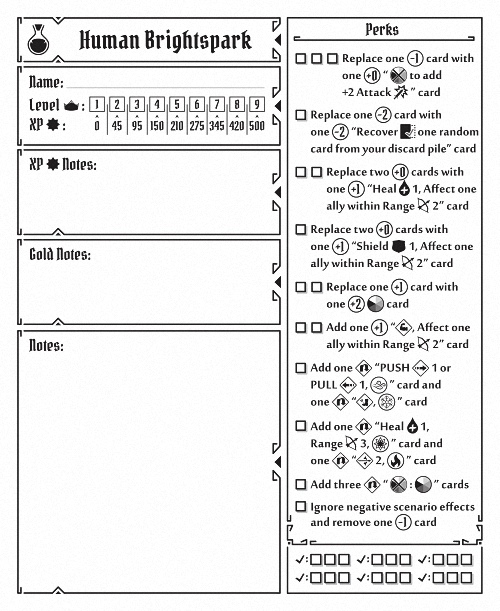
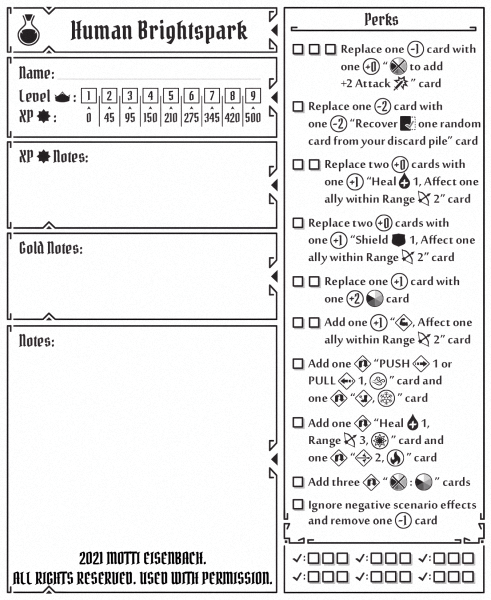
Implement New CS CP Assets with Copyright, Standardized Sizes & Asset Numbers

Changed region(s): [[0.0, 0.0, 1.0, 0.99]]

diff --git a/data/character-perks.js b/data/character-perks.js
@@ -776,148 +776,275 @@
     "assetno": "###"
   },
   {
-    "name": "party sheet",
+    "name": "amber aegis perks",
     "points": 97,
     "expansion": "crimson scales",
-    "image": "character-perks/crimson-scales/cs-party-sheet.png",
-    "xws": "partysheet"
+    "image": "character-perks/crimson-scales/cs-amber-aegis-perks.png",
+    "xws": "amberaegisperks",
+    "assetno": "###"
   },
   {
-    "name": "amber aegis perks",
+    "name": "beetle perks",
     "points": 98,
     "expansion": "crimson scales",
     "image": "character-perks/crimson-scales/cs-amber-aegis-perks.png",
-    "xws": "amberaegisperks"
+    "xws": "beetleperks",
+    "assetno": "###"
   },
   {
     "name": "artificer perks",
     "points": 99,
     "expansion": "crimson scales",
     "image": "character-perks/crimson-scales/cs-artificer-perks.png",
-    "xws": "artificerperks"
+    "xws": "artificerperks",
+    "assetno": "###"
+  },
+  {
+    "name": "tools perks",
+    "points": 100,
+    "expansion": "crimson scales",
+    "image": "character-perks/crimson-scales/cs-artificer-perks.png",
+    "xws": "toolsperks",
+    "assetno": "###"
   },
   {
     "name": "bombard perks",
-    "points": 100,
+    "points": 101,
     "expansion": "crimson scales",
     "image": "character-perks/crimson-scales/cs-bombard-perks.png",
-    "xws": "bombardperks"
+    "xws": "bombardperks",
+    "assetno": "###"
+  },
+  {
+    "name": "target perks",
+    "points": 102,
+    "expansion": "crimson scales",
+    "image": "character-perks/crimson-scales/cs-bombard-perks.png",
+    "xws": "targetperks",
+    "assetno": "###"
   },
   {
     "name": "brightspark perks",
-    "points": 101,
+    "points": 103,
     "expansion": "crimson scales",
     "image": "character-perks/crimson-scales/cs-brightspark-perks.png",
-    "xws": "brightsparkperks"
+    "xws": "brightsparkperks",
+    "assetno": "###"
+  },
+  {
+    "name": "flask perks",
+    "points": 104,
+    "expansion": "crimson scales",
+    "image": "character-perks/crimson-scales/cs-brightspark-perks.png",
+    "xws": "flaskperks",
+    "assetno": "###"
   },
   {
     "name": "chainguard perks",
-    "points": 102,
+    "points": 105,
     "expansion": "crimson scales",
     "image": "character-perks/crimson-scales/cs-chainguard-perks.png",
-    "xws": "chainguardperks"
+    "xws": "chainguardperks",
+    "assetno": "###"
+  },
+  {
+    "name": "chained helmet perks",
+    "points": 106,
+    "expansion": "crimson scales",
+    "image": "character-perks/crimson-scales/cs-chainguard-perks.png",
+    "xws": "chainedhelmetperks",
+    "assetno": "###"
   },
   {
     "name": "chieftain perks",
-    "points": 103,
+    "points": 107,
     "expansion": "crimson scales",
     "image": "character-perks/crimson-scales/cs-chieftain-perks.png",
-    "xws": "chieftainperks"
+    "xws": "chieftainperks",
+    "assetno": "###"
+  },
+  {
+    "name": "tusks perks",
+    "points": 108,
+    "expansion": "crimson scales",
+    "image": "character-perks/crimson-scales/cs-chieftain-perks.png",
+    "xws": "tusksperks",
+    "assetno": "###"
   },
   {
     "name": "fire knight perks",
-    "points": 104,
+    "points": 109,
     "expansion": "crimson scales",
     "image": "character-perks/crimson-scales/cs-fire-knight-perks.png",
-    "xws": "fireknightperks"
+    "xws": "fireknightperks",
+    "assetno": "###"
+  },
+  {
+    "name": "ladder axe perks",
+    "points": 110,
+    "expansion": "crimson scales",
+    "image": "character-perks/crimson-scales/cs-fire-knight-perks.png",
+    "xws": "ladderaxeperks",
+    "assetno": "###"
   },
   {
     "name": "hierophant perks",
-    "points": 105,
+    "points": 111,
     "expansion": "crimson scales",
     "image": "character-perks/crimson-scales/cs-hierophant-perks.png",
-    "xws": "hierophantperks"
+    "xws": "hierophantperks",
+    "assetno": "###"
+  },
+  {
+    "name": "leaf perks",
+    "points": 112,
+    "expansion": "crimson scales",
+    "image": "character-perks/crimson-scales/cs-hierophant-perks.png",
+    "xws": "leafperks",
+    "assetno": "###"
   },
   {
     "name": "hollowpact perks",
-    "points": 106,
+    "points": 113,
     "expansion": "crimson scales",
     "image": "character-perks/crimson-scales/cs-hollowpact-perks.png",
-    "xws": "hollowpactperks"
+    "xws": "hollowpactperks",
+    "assetno": "###"
+  },
+  {
+    "name": "vortex perks",
+    "points": 114,
+    "expansion": "crimson scales",
+    "image": "character-perks/crimson-scales/cs-hollowpact-perks.png",
+    "xws": "vortexperks",
+    "assetno": "###"
   },
   {
     "name": "luminary perks",
-    "points": 107,
+    "points": 115,
     "expansion": "crimson scales",
     "image": "character-perks/crimson-scales/cs-luminary-perks.png",
-    "xws": "luminaryperks"
+    "xws": "luminaryperks",
+    "assetno": "###"
+  },
+  {
+    "name": "crescent sun perks",
+    "points": 116,
+    "expansion": "crimson scales",
+    "image": "character-perks/crimson-scales/cs-luminary-perks.png",
+    "xws": "crescentsunperks",
+    "assetno": "###"
   },
   {
     "name": "mirefoot perks",
-    "points": 108,
+    "points": 117,
     "expansion": "crimson scales",
     "image": "character-perks/crimson-scales/cs-mirefoot-perks.png",
-    "xws": "mirefootperks"
+    "xws": "mirefootperks",
+    "assetno": "###"
+  },
+  {
+    "name": "sprig perks",
+    "points": 118,
+    "expansion": "crimson scales",
+    "image": "character-perks/crimson-scales/cs-mirefoot-perks.png",
+    "xws": "sprigperks",
+    "assetno": "###"
+  },
+  {
+    "name": "party sheet",
+    "points": 119,
+    "expansion": "crimson scales",
+    "image": "character-perks/crimson-scales/cs-party-sheet.png",
+    "xws": "partysheet",
+    "assetno": "###"
   },
   {
     "name": "ruinmaw perks",
-    "points": 109,
+    "points": 120,
     "expansion": "crimson scales",
     "image": "character-perks/crimson-scales/cs-ruinmaw-perks.png",
-    "xws": "ruinmawperks"
+    "xws": "ruinmawperks",
+    "assetno": "###"
+  },
+  {
+    "name": "bleeding claw perks",
+    "points": 121,
+    "expansion": "crimson scales",
+    "image": "character-perks/crimson-scales/cs-ruinmaw-perks.png",
+    "xws": "bleedingclawperks",
+    "assetno": "###"
   },
   {
     "name": "spirit caller perks",
-    "points": 110,
+    "points": 122,
     "expansion": "crimson scales",
     "image": "character-perks/crimson-scales/cs-spirit-caller-perks.png",
-    "xws": "spiritcallerperks"
+    "xws": "spiritcallerperks",
+    "assetno": "###"
+  },
+  {
+    "name": "skull perks",
+    "points": 123,
+    "expansion": "crimson scales",
+    "image": "character-perks/crimson-scales/cs-spirit-caller-perks.png",
+    "xws": "skullperks",
+    "assetno": "###"
   },
   {
     "name": "starslinger perks",
-    "points": 111,
+    "points": 124,
     "expansion": "crimson scales",
     "image": "character-perks/crimson-scales/cs-starslinger-perks.png",
-    "xws": "starslingerperks"
+    "xws": "starslingerperks",
+    "assetno": "###"
+  },
+  {
+    "name": "galaxy perks",
+    "points": 125,
+    "expansion": "crimson scales",
+    "image": "character-perks/crimson-scales/cs-starslinger-perks.png",
+    "xws": "galaxyperks",
+    "assetno": "###"
   },
   {
     "name": "incarnate perks",
-    "points": 112,
+    "points": 126,
     "expansion": "trail of ashes",
     "image": "character-perks/trail-of-ashes/toa-incarnate-perks.png",
     "xws": "incarnateperks"
   },
   {
     "name": "rimehearth perks",
-    "points": 113,
+    "points": 127,
     "expansion": "trail of ashes",
     "image": "character-perks/trail-of-ashes/toa-rimehearth-perks.png",
     "xws": "rimehearthperks"
   },
   {
     "name": "shardrender perks",
-    "points": 114,
+    "points": 128,
     "expansion": "trail of ashes",
     "image": "character-perks/trail-of-ashes/toa-shardrender-perks.png",
     "xws": "shardrenderperks"
   },
   {
     "name": "tempest perks",
-    "points": 115,
+    "points": 129,
     "expansion": "trail of ashes",
     "image": "character-perks/trail-of-ashes/toa-tempest-perks.png",
     "xws": "tempestperks"
   },
   {
     "name": "thornreaper perks",
-    "points": 116,
+    "points": 130,
     "expansion": "trail of ashes",
     "image": "character-perks/trail-of-ashes/toa-thornreaper-perks.png",
     "xws": "thornreaperperks"
   },
   {
     "name": "vanquisher perks",
-    "points": 117,
+    "points": 131,
     "expansion": "trail of ashes",
     "image": "character-perks/trail-of-ashes/toa-vanquisher-perks.png",
     "xws": "vanquisherperks"

diff --git a/index.html b/index.html
@@ -16642,12 +16642,22 @@
 					<h1><i class="fa fa-plus"></i> Character Perks </h1>
 					<div class="textzone">
 						<table class="table-padded">
-							<tr><td>Party Sheet</td></tr>
-							<tr><td>&nbsp</td></tr>
-							<tr><td>Amber Aegis Perks</td><td>Chainguard Perks </td><td>Hollowpact Perks</td><td>Spirit Caller Perks</td></tr>
-							<tr><td>Artificer Perks  </td><td>Chieftain Perks  </td><td>Luminary Perks  </td><td>Starslinger Perks  </td></tr>
-							<tr><td>Bombard Perks    </td><td>Fire Knight Perks</td><td>Mirefoot Perks  </td></tr>
-							<tr><td>Brightspark Perks</td><td>Hierophant Perks </td><td>Ruinmaw Perks   </td></tr>
+							<tr><td class="td-bu">Asset Name (Spoiler)</td><td class="td-bu">Asset Name (Non-Spoiler)</td></tr>
+							<tr><td>Party Sheet        </td></tr>
+							<tr><td>Amber Aegis Perks  </td><td>Beetle Perks        </td></tr>
+							<tr><td>Artificer Perks    </td><td>Tools Perks         </td></tr>
+							<tr><td>Bombard Perks      </td><td>Target Perks        </td></tr>
+							<tr><td>Brightspark Perks  </td><td>Flask Perks         </td></tr>
+                            <tr><td>Chainguard Perks   </td><td>Chained Helmet Perks</td></tr>
+                            <tr><td>Chieftain Perks    </td><td>Tusks Perks         </td></tr>
+                            <tr><td>Fire Knight Perks  </td><td>Ladder Axe Perks    </td></tr>
+                            <tr><td>Hierophant Perks   </td><td>Leaf Perks          </td></tr>
+                            <tr><td>Hollowpact Perks   </td><td>Vortex Perks        </td></tr>
+                            <tr><td>Luminary Perks     </td><td>Crescent Sun Perks  </td></tr>
+                            <tr><td>Mirefoot Perks     </td><td>Sprig Perks         </td></tr>
+                            <tr><td>Ruinmaw Perks      </td><td>Bleeding Claw Perks </td></tr>
+                            <tr><td>Spirit Caller Perks</td><td>Skull Perks         </td></tr>
+                            <tr><td>Starslinger Perks  </td><td>Galaxy Perks        </td></tr>
 						</table>
 					</div>
 
